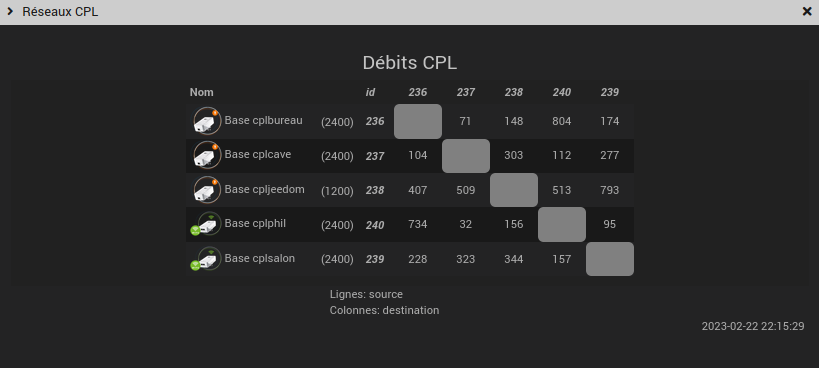
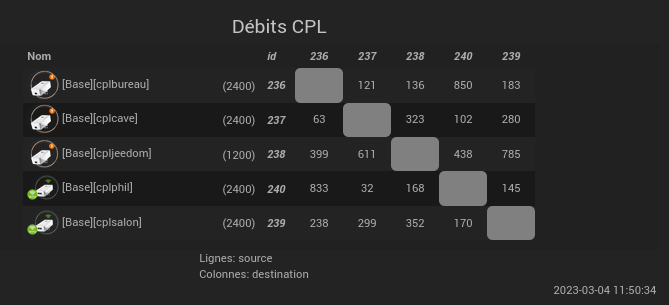
nouvelle release de devolo_cpl

diff --git a/fr_FR/devolo_cpl/changelog.md b/fr_FR/devolo_cpl/changelog.md
@@ -5,44 +5,63 @@ title : devolo_cpl
 
 # Release notes
 
+### 2023/03/04 beta
++ Nouveau pluginlevel: 6.
+  + Tris des commandes des équipements existants.
+  + Création de trois commandes pour les versions et disponibilités de firmware pour
+    les équipements éxistants.
+
++ Fonctionnalité
+  + Remontée des versions des firmwares et information si un update est disponible.
+
++ Interface
+  + Modificaton de l'affichage des noms des équipements dans le tableau des débits.
+  + Amélioration de la gestion des commandes en cas de changement de modèle d'un
+    équipement.
+
++ code
+  + Amélioration.
+  + Corrections de bugs.
+  + Suppression de fichiers inutiles.
+  + Les mac adresses des équipements sont renseignées dès la première synchro.
+
 ### 2023/02/24 beta
 + Nouveau pluginlevel: 5.
-+ (Re)crération de la table des débits.
+   + (Re)création de la table des débits.
 
-##### Désinstallation
-+ La table des débits n'est plus supprimée.
++ Désinstallation
+   + La table des débits n'est plus supprimée.
 
-##### Correction de bug
-+ La table des débits était supprimée lors de la désactivation du plugin.
++ Correction de bug
+   + La table des débits était supprimée lors de la désactivation du plugin.
 
 ### 2023/02/22 beta
 
-##### Mise à jour ou installation:
-+ Nouveau pluginLevel: 4.
-+ La rétention des débits est initialisée à une semaine.
-+ La table pour l'enregistrement des débits est créée dans la DB.
++ Mise à jour ou installation:
+   + Nouveau pluginLevel: 4.
+   + La rétention des débits est initialisée à une semaine.
+   + La table pour l'enregistrement des débits est créée dans la DB.
 
-##### Désinstallation
-+ Suppression de la table des débits CPL.
++ Désinstallation
+   + Suppression de la table des débits CPL.
 
-##### Configuration des équipements
-+ nouveau paramètre `Réseau`.
++ Configuration des équipements
+   + nouveau paramètre `Réseau`.
 
-##### Interface:
-+ Tableau de présentation des débits.
++ Interface:
+   + Tableau de présentation des débits.
 
 ### 2023/02/18 beta
 
-##### dépendances:
-+ Ajout du module python *importlib-metadata*
++ dépendances:
+   + Ajout du module python *importlib-metadata*
+> :bulb: L'installation des dépendances doit être relancée après mise à jour du plugin.
 
-   L'installation des dépendances doit être relancée après mise à jour du plugin.
-
-##### module devolo_plc_api:
-+ Passage à la version 1.2.0
-+ La version 1.2.0 est une version modifiée pour être compatible python 3.7.
-+ Une option dans la page de configuration du plugin permet de revenir à la version 1.1.0 en cas de nécessité.
-+ Merci d'ouvrir un sujet sur le forum Jeedom si vous devez repasser à la version 1.1.0.
++ module devolo_plc_api:
+   + Passage à la version 1.2.0
+   + La version 1.2.0 est une version modifiée pour être compatible python 3.7.
+   + Une option dans la page de configuration du plugin permet de revenir à la version 1.1.0 en cas de nécessité.
+   + Merci d'ouvrir un sujet sur le forum Jeedom si vous devez repasser à la version 1.1.0.
 
 ### 2023/2/14 beta bis
 + Indication des versions des modules dépendants.

diff --git a/fr_FR/devolo_cpl/index.md b/fr_FR/devolo_cpl/index.md
@@ -201,6 +201,20 @@ la commande refresh est activée.
     + L'état de l'info n'est pas modifié si la localisation est activée ou
       désactivée par un autre logiciel que le plugin (par Devolo cockpit par exemple).
 
+### Les versions de firmware
+{: .num}
+
++ La commande info `firmware` indique la version du firmware installé dans l'appareil.
++ La commande info `update_available` indique si une mise à jour du firmware est
+  disponible.
++ La commande info `next_firmware` indique la version disponible pour un upgrade. Cette
+  info et vide si l'appareil est à jour.
+
+> :bulb: Mes appareils étant tous à jour, je n'ai pas encore pu tester correctement
+  les commandes `update_available` et `next_firmware`. Tous retour d'expérience via
+  le [forum](https://community.jeedom.com) (ne pas oubler l'étiquette `plugin-devolo_cpl`)
+  sera le bienvenu.
+
 # Les débits CPL
 {: .num}
 
@@ -223,8 +237,8 @@ avoir un tableau pour les débit entre des équipements DLan et un autre pour le
 
 Les lignes du tableau représente les appareils source et les colonnes, les detinations.
 
-Dans l'image ci-dessus, nous avons donc un flux 734 Mbps de *cplbureau* vers *cplbureau*
-et de 804 Mbps dans le senc inverse.
+Dans l'image ci-dessus, nous avons donc un flux 833 Mbps de *cplphil* vers *cplbureau*
+et de 850 Mbps dans le senrsc inverse.
 
-Les débits sont relevés toutes le 5 minutes. L'heure en bas à droite du modal indiques
+Les débits sont relevés toutes le 5 minutes. L'heure en bas à droite du modal indique
 l'heure à laquelle les débits affichés ont été relevés.
